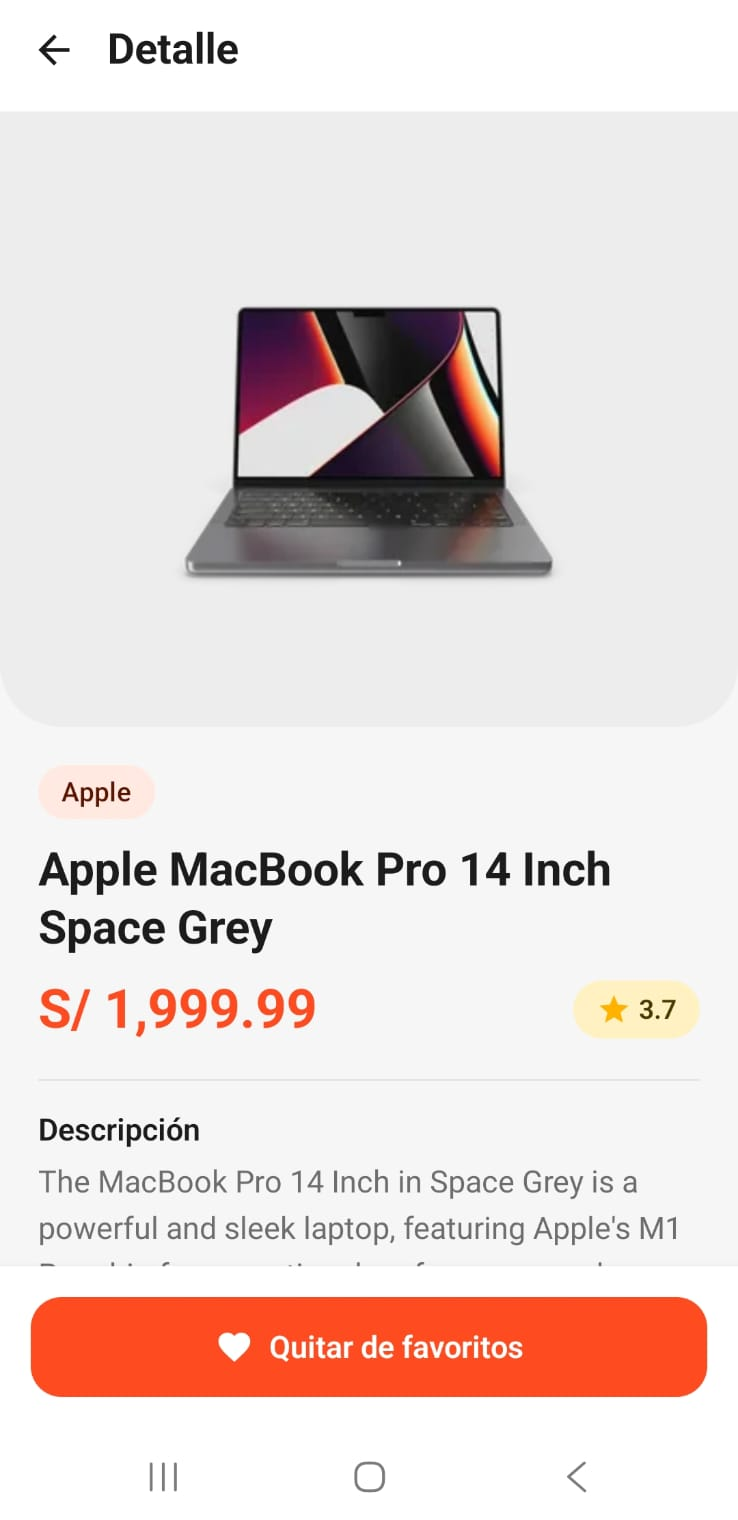
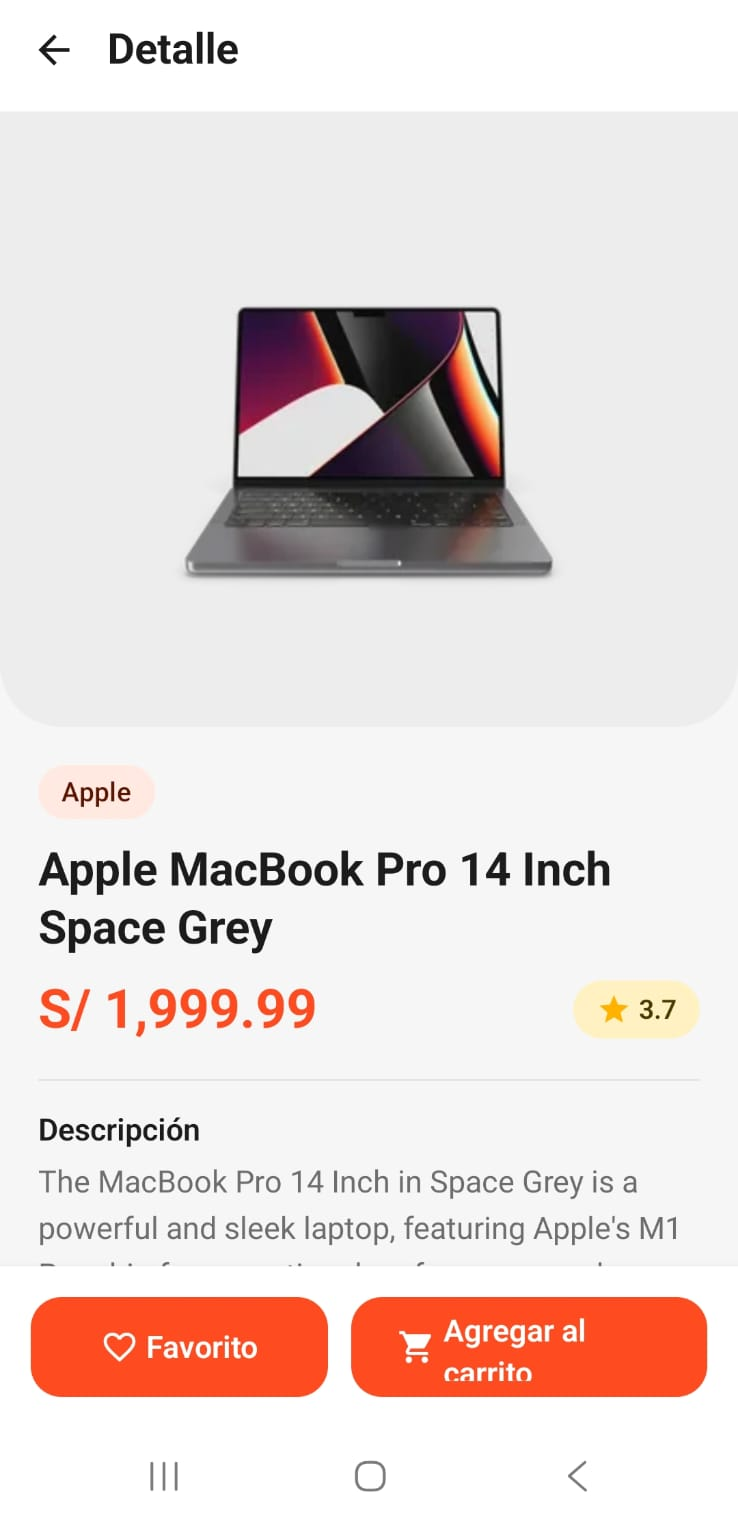
docs: agregar capturas del carrito y de ordenar y filtrar al README

Changed region(s): [[0.1247, 0.8349, 0.8103, 0.9276], [0.4675, 0.9586, 0.5298, 0.9895], [0.187, 0.9586, 0.2493, 0.9895]]

diff --git a/Semana12/app/src/main/java/com/gutierrez/biblioteca/ui/detalle/DetalleScreen.kt b/Semana12/app/src/main/java/com/gutierrez/biblioteca/ui/detalle/DetalleScreen.kt
@@ -4,6 +4,7 @@ import androidx.compose.foundation.background
 import androidx.compose.foundation.layout.Arrangement
 import androidx.compose.foundation.layout.Box
 import androidx.compose.foundation.layout.Column
+import androidx.compose.foundation.layout.PaddingValues
 import androidx.compose.foundation.layout.Row
 import androidx.compose.foundation.layout.Spacer
 import androidx.compose.foundation.layout.fillMaxSize
@@ -108,8 +109,9 @@ fun DetalleContenido(
                         Button(
                             onClick = onAlternarFavorito,
                             shape = RoundedCornerShape(16.dp),
+                            contentPadding = PaddingValues(horizontal = 8.dp),
                             modifier = Modifier
-                                .weight(1f)
+                                .weight(0.8f)
                                 .height(52.dp)
                         ) {
                             Icon(
@@ -119,15 +121,18 @@ fun DetalleContenido(
                             )
                             Text(
                                 text = "Favorito",
-                                style = MaterialTheme.typography.titleMedium,
-                                modifier = Modifier.padding(start = 4.dp)
+                                style = MaterialTheme.typography.titleSmall,
+                                maxLines = 1,
+                                softWrap = false,
+                                modifier = Modifier.padding(start = 6.dp)
                             )
                         }
                         Button(
                             onClick = onAgregarAlCarrito,
                             shape = RoundedCornerShape(16.dp),
+                            contentPadding = PaddingValues(horizontal = 8.dp),
                             modifier = Modifier
-                                .weight(1.2f)
+                                .weight(1.3f)
                                 .height(52.dp)
                         ) {
                             Icon(
@@ -137,8 +142,10 @@ fun DetalleContenido(
                             )
                             Text(
                                 text = "Agregar al carrito",
-                                style = MaterialTheme.typography.titleMedium,
-                                modifier = Modifier.padding(start = 4.dp)
+                                style = MaterialTheme.typography.titleSmall,
+                                maxLines = 1,
+                                softWrap = false,
+                                modifier = Modifier.padding(start = 6.dp)
                             )
                         }
                     }

diff --git a/Semana12/app/src/main/java/com/gutierrez/biblioteca/ui/lista/ListaScreen.kt b/Semana12/app/src/main/java/com/gutierrez/biblioteca/ui/lista/ListaScreen.kt
@@ -5,6 +5,9 @@ import androidx.compose.foundation.background
 import androidx.compose.foundation.border
 import androidx.compose.foundation.clickable
 import androidx.compose.foundation.layout.Arrangement
+import androidx.compose.foundation.layout.navigationBarsPadding
+import androidx.compose.foundation.rememberScrollState
+import androidx.compose.foundation.verticalScroll
 import androidx.compose.foundation.layout.Box
 import androidx.compose.foundation.layout.Column
 import androidx.compose.foundation.layout.PaddingValues
@@ -356,7 +359,7 @@ private fun FiltrosBottomSheet(
     onAplicar: (OpcionesLista) -> Unit,
     onLimpiar: () -> Unit
 ) {
-    val sheetState = rememberModalBottomSheetState()
+    val sheetState = rememberModalBottomSheetState(skipPartiallyExpanded = true)
     var ordenTemp by remember { mutableStateOf(opcionesActuales.orden) }
     
     val minVal = rangoReal.first
@@ -377,6 +380,8 @@ private fun FiltrosBottomSheet(
         Column(
             modifier = Modifier
                 .fillMaxWidth()
+                .verticalScroll(rememberScrollState())
+                .navigationBarsPadding()
                 .padding(24.dp)
         ) {
             Text(

diff --git a/Semana12/README.md b/Semana12/README.md
@@ -1,6 +1,6 @@
 # Catálogo de Productos
-###### Gutierrez Duran Juan Diego Gilmer
-Aplicación Android de catálogo de productos hecha con Kotlin y Jetpack Compose (MVVM). Consume la API de [dummyjson.com](https://dummyjson.com), guarda los datos con Room para usarlos sin conexión, inicia sesión y registra usuarios con Firebase, maneja los roles USUARIO y ADMIN, permite marcar favoritos y muestra una notificación local al sincronizar desde el panel Admin.
+
+Aplicación Android de catálogo de productos hecha con Kotlin y Jetpack Compose (MVVM). Consume la API de [dummyjson.com](https://dummyjson.com), guarda los datos con Room para usarlos sin conexión, inicia sesión y registra usuarios con Firebase, maneja los roles USUARIO y ADMIN, permite marcar favoritos, agregar productos al carrito, ordenar y filtrar la lista, y muestra una notificación local al sincronizar desde el panel Admin.
 
 ## Capturas
 
@@ -8,10 +8,14 @@ Aplicación Android de catálogo de productos hecha con Kotlin y Jetpack Compose
 |:---:|:---:|:---:|
 | ![Login](docs/capturas/01_login.png) | ![Registro](docs/capturas/02_registro.png) | ![Lista](docs/capturas/03_lista.png) |
 
-| Búsqueda | Detalle | Favoritos |
+| Búsqueda | Ordenar y filtrar | Detalle |
 |:---:|:---:|:---:|
-| ![Búsqueda](docs/capturas/04_busqueda.png) | ![Detalle](docs/capturas/05_detalle.png) | ![Favoritos](docs/capturas/06_favoritos.png) |
+| ![Búsqueda](docs/capturas/04_busqueda.png) | ![Ordenar y filtrar](docs/capturas/11_filtros.png) | ![Detalle](docs/capturas/05_detalle.png) |
 
-| Panel Admin | Sin conexión | Notificación |
+| Favoritos | Carrito | Panel Admin |
 |:---:|:---:|:---:|
-| ![Panel Admin](docs/capturas/07_admin.png) | ![Sin conexión](docs/capturas/08_sin_conexion.png) | ![Notificación](docs/capturas/09_notificacion.png) |
+| ![Favoritos](docs/capturas/06_favoritos.png) | ![Carrito](docs/capturas/10_carrito.png) | ![Panel Admin](docs/capturas/07_admin.png) |
+
+| Sin conexión | Notificación |
+|:---:|:---:|
+| ![Sin conexión](docs/capturas/08_sin_conexion.png) | ![Notificación](docs/capturas/09_notificacion.png) |
